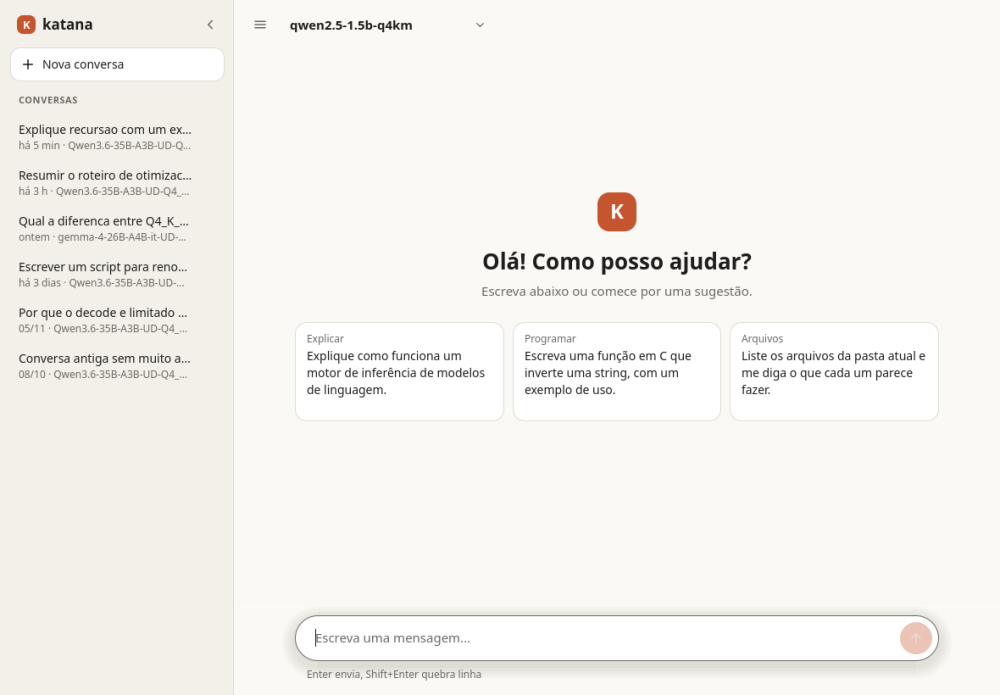
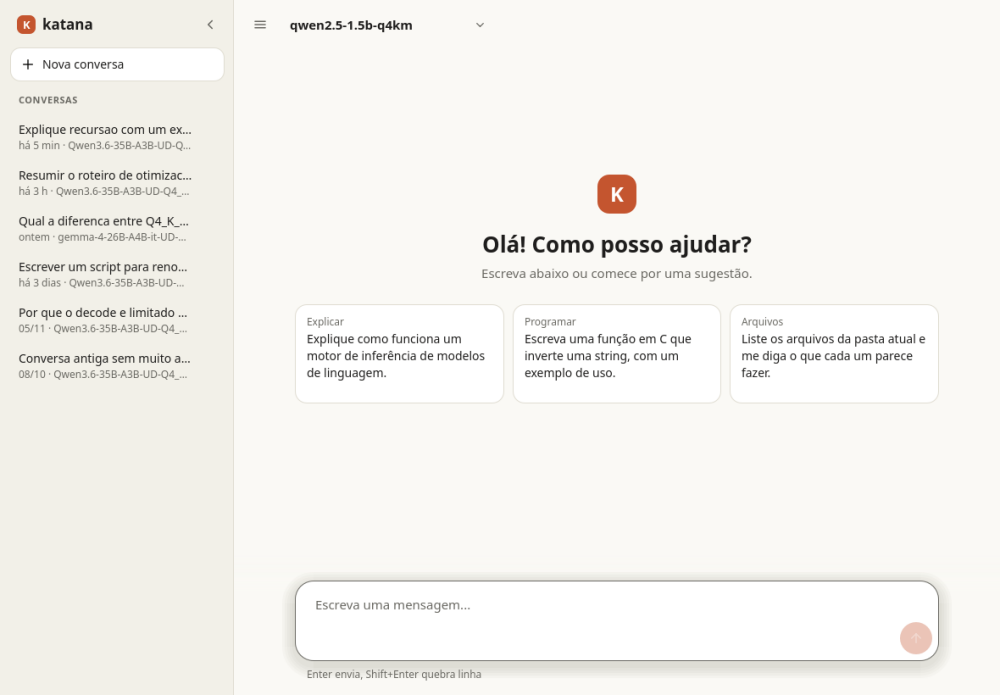
katana-desktop: caixa de entrada maior que cresce, indicador de contexto (anel + tokens + dica, cores 70/85%), icone embutido, .desktop e instalar-dock.sh; selftest cobre indicador e crescimento

diff --git a/desktop-qt/qml/ContextMeter.qml b/desktop-qt/qml/ContextMeter.qml
@@ -1,0 +1,75 @@
+import QtQuick
+import Katana
+import QtQuick.Controls
+
+// Indicador discreto de uso do contexto: anel de progresso + texto, com dica ao passar o mouse.
+// Cores: normal (<70%), aviso (>=70%), critico (>=85%).
+Item {
+    id: m
+    property int used: 0
+    property int total: 0
+    readonly property bool known: total > 0
+    readonly property real frac: known ? Math.min(1, used / total) : 0
+    readonly property int pct: Math.round(frac * 100)
+    readonly property string level: !known ? "none" : frac >= 0.85 ? "crit" : frac >= 0.70 ? "warn" : "ok"
+    readonly property color tone: level === "crit" ? Theme.err
+                                 : level === "warn" ? (Theme.dark ? "#e0b050" : "#b7791f") : Theme.mut
+    readonly property string label: known ? fmt(used) + " / " + fmt(total) + " tokens · " + pct + "%" : ""
+    readonly property string tipText: known
+        ? "Tokens usados: " + used + "\nContexto total: " + total + "\nLivre: " + Math.max(0, total - used)
+          + " (" + (100 - pct) + "%)"
+        : ""
+
+    function fmt(n) {
+        if (n >= 10000) return Math.round(n / 1000) + " mil";
+        if (n >= 1000) return (n / 1000).toFixed(1).replace(".", ",") + " mil";
+        return String(n);
+    }
+
+    visible: known
+    implicitWidth: row.implicitWidth
+    implicitHeight: 20
+    Accessible.role: Accessible.StaticText
+    Accessible.name: known ? "Contexto usado: " + label : ""
+
+    Row {
+        id: row
+        spacing: 6
+        anchors.verticalCenter: parent.verticalCenter
+        Canvas {
+            id: ring
+            width: 14; height: 14
+            anchors.verticalCenter: parent.verticalCenter
+            property real f: m.frac
+            property color c: m.tone
+            property color track: Theme.bd
+            onFChanged: requestPaint()
+            onCChanged: requestPaint()
+            onTrackChanged: requestPaint()
+            onPaint: {
+                var ctx = getContext("2d");
+                ctx.reset();
+                ctx.lineWidth = 2;
+                ctx.strokeStyle = track;
+                ctx.beginPath(); ctx.arc(7, 7, 5.5, 0, 2 * Math.PI); ctx.stroke();
+                if (f > 0) {
+                    ctx.strokeStyle = c;
+                    ctx.beginPath();
+                    ctx.arc(7, 7, 5.5, -Math.PI / 2, -Math.PI / 2 + 2 * Math.PI * Math.max(0.02, f));
+                    ctx.stroke();
+                }
+            }
+        }
+        Text {
+            objectName: "ctxLabel"
+            anchors.verticalCenter: parent.verticalCenter
+            font.pixelSize: 12
+            color: m.tone
+            text: m.label
+        }
+    }
+    HoverHandler { id: hh }
+    ToolTip.visible: hh.hovered && known
+    ToolTip.delay: 300
+    ToolTip.text: tipText
+}

diff --git a/desktop-qt/qml/Composer.qml b/desktop-qt/qml/Composer.qml
@@ -46,17 +46,19 @@ Item {
         x: (comp.width - width) / 2
         y: 0
         width: comp.cw
-        height: Math.max(54, fl.height + 20)
-        radius: Math.min(27, height / 2)
+        // cresce com o conteudo: minimo ~2 linhas, maximo ~10 linhas (depois rola)
+        height: Math.max(76, fl.height + 24 + 38)
+        radius: 22
         color: Theme.card
         border.color: ta.activeFocus ? Theme.mut : Theme.bd
 
         Flickable {
             id: fl
+            objectName: "composerFlick"
             x: 20
-            anchors.verticalCenter: parent.verticalCenter
-            width: parent.width - 20 - 56
-            height: Math.min(ta.implicitHeight, 200)
+            y: 12
+            width: parent.width - 20 - 20
+            height: Math.min(ta.implicitHeight, 240)
             contentWidth: width
             contentHeight: ta.implicitHeight
             clip: true
@@ -133,10 +135,18 @@ Item {
             Accessible.role: Accessible.StaticText
         }
         Text {
-            Layout.rightMargin: 14
+            Layout.rightMargin: 4
             font.pixelSize: 12
             color: Theme.mut
-            text: [backend.speedText, backend.ctxText].filter(function (x) { return x; }).join(" · ")
+            visible: text.length > 0
+            text: backend.speedText
+        }
+        ContextMeter {
+            id: meter
+            objectName: "contextMeter"
+            Layout.rightMargin: 14
+            used: backend.ctxUsed
+            total: backend.ctxTotal
         }
     }
 }

diff --git a/desktop-qt/src/selftest.cpp b/desktop-qt/src/selftest.cpp
@@ -207,6 +207,21 @@ int runSelfTest(Backend &be, QQuickWindow *win, const QString &capDir, const QSt
     typeText(win, "b");
     check(c.inputText() == "a\nb", "Shift+Enter insere quebra de linha");
     check(be.messages()->count() == 0, "Shift+Enter nao enviou");
+    {
+        // a caixa cresce com o conteudo e para num limite (depois rola)
+        QQuickItem *in = c.item("composerInput");
+        QQuickItem *fl = c.item("composerFlick");
+        const double h1 = fl->height();
+        in->setProperty("text", "l1\nl2\nl3\nl4\nl5");
+        QTest::qWait(150);
+        const double h5 = fl->height();
+        check(h5 > h1 + 40, "caixa de texto cresce com varias linhas");
+        c.grab("10-caixa-multilinha.png");
+        in->setProperty("text", "x\nx\nx\nx\nx\nx\nx\nx\nx\nx\nx\nx\nx\nx\nx\nx\nx\nx\nx\nx\nx\nx\nx\nx\nx\nx\nx\nx\nx\nx");
+        QTest::qWait(150);
+        check(fl->height() <= 241, "caixa para de crescer no limite");
+        c.grab("11-caixa-limite.png");
+    }
     c.item("composerInput")->setProperty("text", "");
 
     // ---- turno com ferramenta ----
@@ -257,6 +272,19 @@ int runSelfTest(Backend &be, QQuickWindow *win, const QString &capDir, const QSt
         check(be.messages()->count() == n0, "marcadores desconhecidos (WARM etc.) ignorados sem erro");
         be.injectMarker("TOKENS 4321 32768");
         check(be.ctxText() == "contexto 4321 de 32768", "TOKENS atualiza o uso de contexto");
+        QQuickItem *meter = c.item("contextMeter");
+        check(meter && meter->isVisible(), "indicador de contexto visivel");
+        check(meter->property("level").toString() == "ok" && meter->property("pct").toInt() == 13,
+              "indicador: 4321/32768 = 13% (normal)");
+        c.grab("07-contexto-normal.png");
+        be.injectMarker("TOKENS 24000 32768");
+        check(meter->property("level").toString() == "warn", "indicador: 73% = aviso");
+        c.grab("08-contexto-aviso.png");
+        be.injectMarker("TOKENS 30000 32768");
+        check(meter->property("level").toString() == "crit", "indicador: 92% = critico");
+        check(meter->property("tipText").toString().contains("Livre: 2768"), "dica do indicador mostra o livre");
+        c.grab("09-contexto-critico.png");
+        be.injectMarker("TOKENS 4321 32768");
         be.injectMarker("COMPACT 30000 8000");
         QVariantMap nm = be.messages()->get(be.messages()->count() - 1);
         check(nm["kind"] == "notice" && nm["text"].toString() == "Contexto compactado: 30000 -> 8000 tokens", "COMPACT vira aviso discreto");

diff --git a/desktop-qt/src/backend.cpp b/desktop-qt/src/backend.cpp
@@ -252,7 +252,7 @@ void Backend::start(const QString &modelFile)
         m_msgs.clear();
     }
     m_speed.clear();
-    m_ctx.clear();
+    m_ctx.clear(); m_ctxUsed = 0; m_ctxTotal = 0;
     setTexts(QStringLiteral("Carregando o modelo (pode levar alguns minutos)..."), {});
     setState(false, true, true);
     emit currentModelChanged();
@@ -421,7 +421,7 @@ bool Backend::newChat()
     m_pendingCtx.clear();
     m_dirty = false;
     m_speed.clear();
-    m_ctx.clear();
+    m_ctx.clear(); m_ctxUsed = 0; m_ctxTotal = 0;
     setTexts(QStringLiteral("Preparando a conversa..."), {});
     setState(false, false, true);
     writeLine("/novo");
@@ -449,7 +449,7 @@ bool Backend::openSession(const QString &id)
         items.append({m.papel, m.texto, m.nome});
     m_msgs.setAll(items);
     m_speed.clear();
-    m_ctx.clear();
+    m_ctx.clear(); m_ctxUsed = 0; m_ctxTotal = 0;
     if (agentReady) {
         setTexts(QStringLiteral("Preparando a conversa..."), {});
         setState(false, false, true);
@@ -560,8 +560,7 @@ void Backend::handleMarker(const QByteArray &line)
     } else if (name == "TOKENS") {  // TOKENS <pos> <ctx>
         const QStringList a = args.split(' ', Qt::SkipEmptyParts);
         if (a.size() >= 2) {
-            m_ctx = "contexto " + a[0] + " de " + a[1];
-            emit textsChanged();
+            setCtx(a[0].toInt(), a[1].toInt());
         }
     } else if (name == "COMPACT") {  // COMPACT <antes> <depois>
         const QStringList a = args.split(' ', Qt::SkipEmptyParts);
@@ -569,6 +568,14 @@ void Backend::handleMarker(const QByteArray &line)
             m_msgs.append("notice", "Contexto compactado: " + a[0] + " -> " + a[1] + " tokens");
     }
     // WARM e outros: ignorados
+}
+
+void Backend::setCtx(int used, int total)
+{
+    m_ctxUsed = used;
+    m_ctxTotal = total;
+    m_ctx = "contexto " + QString::number(used) + " de " + QString::number(total);
+    emit textsChanged();
 }
 
 void Backend::markReady()
@@ -685,8 +692,7 @@ void Backend::onStderr()
         const auto m = stats.match(l);
         if (m.hasMatch()) {
             m_speed = m.captured(4) + " tok/s";
-            m_ctx = "contexto " + m.captured(5) + " de " + m.captured(6);
-            emit textsChanged();
+            setCtx(m.captured(5).toInt(), m.captured(6).toInt());
         } else if (l.contains("contexto cheio")) {
             setTexts(m_status, "Contexto cheio. Inicie uma conversa nova.");
         } else if (l.contains("interrompido")) {

diff --git a/desktop-qt/src/backend.h b/desktop-qt/src/backend.h
@@ -69,6 +69,8 @@ class Backend : public QObject
     Q_PROPERTY(QString errorText READ errorText NOTIFY textsChanged)
     Q_PROPERTY(QString speedText READ speedText NOTIFY textsChanged)
     Q_PROPERTY(QString ctxText READ ctxText NOTIFY textsChanged)
+    Q_PROPERTY(int ctxUsed READ ctxUsed NOTIFY textsChanged)
+    Q_PROPERTY(int ctxTotal READ ctxTotal NOTIFY textsChanged)
     Q_PROPERTY(QVariantList sessions READ sessions NOTIFY sessionsChanged)
     Q_PROPERTY(QString currentSessionId READ currentSessionId NOTIFY sessionsChanged)
     Q_PROPERTY(bool hasPendingContext READ hasPendingContext NOTIFY stateChanged)
@@ -91,6 +93,8 @@ public:
     QString errorText() const { return m_error; }
     QString speedText() const { return m_speed; }
     QString ctxText() const { return m_ctx; }
+    int ctxUsed() const { return m_ctxUsed; }
+    int ctxTotal() const { return m_ctxTotal; }
     QVariantList sessions() const { return m_sessions; }
     QString currentSessionId() const { return m_sess.id; }
     bool hasPendingContext() const { return !m_pendingCtx.isEmpty(); }
@@ -155,6 +159,8 @@ private:
     QString m_model;
     bool m_ready = false, m_loading = false, m_answering = false;
     QString m_status, m_error, m_speed, m_ctx;
+    int m_ctxUsed = 0, m_ctxTotal = 0;
+    void setCtx(int used, int total);
 
     QByteArray m_outBuf, m_errBuf, m_utf8Tail;
     bool m_atLineStart = true;

diff --git a/desktop-qt/src/main.cpp b/desktop-qt/src/main.cpp
@@ -3,6 +3,7 @@
 #include <QCommandLineParser>
 #include <QDir>
 #include <QGuiApplication>
+#include <QIcon>
 #include <QQmlApplicationEngine>
 #include <QQmlContext>
 #include <QQuickStyle>
@@ -36,6 +37,13 @@ int main(int argc, char **argv)
     QGuiApplication app(argc, argv);
     app.setApplicationName("katana-desktop");
     app.setOrganizationName("katana");
+    QGuiApplication::setDesktopFileName("katana-desktop");  // casa com katana-desktop.desktop (dock)
+    {
+        QIcon ic;
+        for (int t : {16, 32, 48, 64, 128, 256, 512})
+            ic.addFile(QString(":/icons/katana-%1.png").arg(t), QSize(t, t));
+        QGuiApplication::setWindowIcon(ic);
+    }
     QQuickStyle::setStyle("Basic");
 
     QCommandLineParser cli;

diff --git a/desktop-qt/README.md b/desktop-qt/README.md
@@ -20,9 +20,16 @@ Janela propria em Qt Quick; sem navegador e sem servidor HTTP. O backend (C++17)
   (ate ~6000 caracteres, mantendo o fim); a tela mostra so o digitado. O resumo pendente sobrevive a troca
   de modelo.
 - Chamadas de ferramenta viram cartoes (nome + argumentos legiveis); o XML cru do modelo nao aparece.
-- Estatisticas discretas sob a caixa: tok/s (stderr) e uso de contexto (marcador `TOKENS`). O marcador
-  `COMPACT` mostra "Contexto compactado: N -> M tokens". Marcadores desconhecidos sao ignorados
-  (ponto de extensao: `Backend::handleMarker`).
+- Caixa de entrada grande (minimo ~2 linhas) que cresce com o texto ate ~240 px e depois rola. Enter
+  envia, Shift+Enter quebra linha (o agente le uma linha por turno: as quebras viram espacos, e a
+  interface avisa).
+- Estatisticas discretas sob a caixa: tok/s (stderr) e indicador de contexto (`ContextMeter.qml`): anel de
+  progresso + "X mil / Y mil tokens · Z%", com dica ao passar o mouse (usados, total, livre). Cor normal
+  abaixo de 70%, ambar a partir de 70%, vermelha a partir de 85%. Alimentado pelo marcador `TOKENS`
+  (e pela linha de estatisticas do stderr). O marcador `COMPACT` mostra "Contexto compactado: N -> M
+  tokens". Marcadores desconhecidos sao ignorados (ponto de extensao: `Backend::handleMarker`).
+- Icone: `icons/katana.svg` (fonte) e PNGs 16 a 512, embutidos no executavel (recursos Qt) e usados como
+  icone da janela. O nome do aplicativo/app id e `katana-desktop`.
 - Tema claro/escuro segue o sistema (`KATANA_THEME=light|dark` forca um).
 
 Protocolo: o agente roda com `KATANA_UI=1 NO_COLOR=1 KATANA_THINK=0`. Linhas de stdout que comecam com
@@ -43,3 +50,11 @@ viram espacos); no Windows, parar mata o agente; a versao Windows nao foi compil
 Nao copie o binario: ele precisa da pasta `Katana/` (modulo QML) que fica ao lado dele em `desktop-qt/build/`.
 Use um link simbolico (o Qt resolve o caminho real): `ln -sf desktop-qt/build/katana-desktop-qt katana-desktop`.
 Copiar o binario sozinho da o erro `Module "Katana" contains no type named "Main"`.
+
+## Dock e menu de aplicativos (GNOME/Ubuntu)
+
+`desktop-qt/instalar-dock.sh` instala `katana-desktop.desktop` em `~/.local/share/applications/`, os icones em
+`~/.local/share/icons/hicolor/<tam>/apps/katana-desktop.png`, atualiza os caches e acrescenta
+`katana-desktop.desktop` a `org.gnome.shell favorite-apps` (sem remover os favoritos nem duplicar). Em outros
+ambientes instala so o atalho do menu. O `Exec` do .desktop usa o link `/mnt/dados/source/katana/katana-desktop`
+(veja acima); o script nao mexe no binario.
